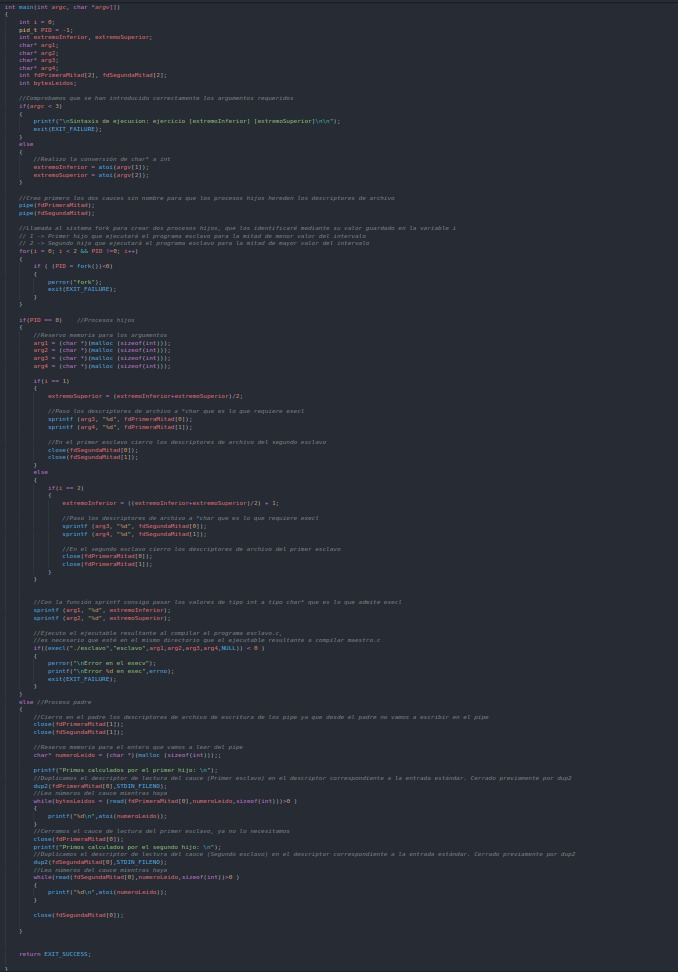
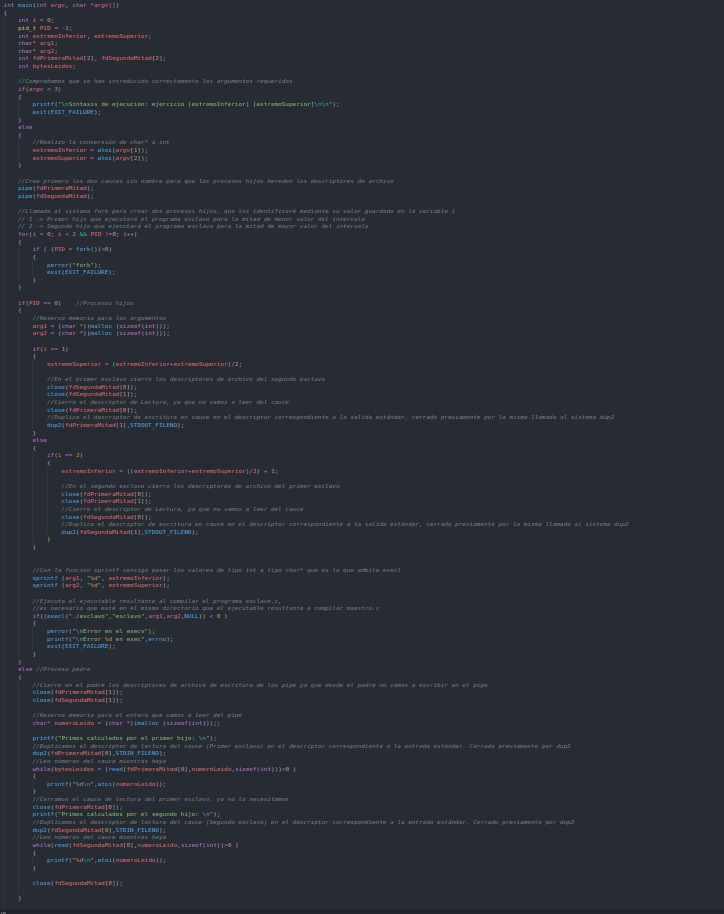
Corrigiendo apuntes

diff --git a/Modulo_II/Sesion 4/maestro.c b/Modulo_II/Sesion 4/maestro.c
@@ -13,8 +13,6 @@ int main(int argc, char *argv[])
     int extremoInferior, extremoSuperior;
     char* arg1;
     char* arg2;
-    char* arg3;
-    char* arg4;
     int fdPrimeraMitad[2], fdSegundaMitad[2];
     int bytesLeidos;
 
@@ -52,16 +50,10 @@ int main(int argc, char *argv[])
         //Reservo memoria para los argumentos
         arg1 = (char *)(malloc (sizeof(int)));
         arg2 = (char *)(malloc (sizeof(int)));
-        arg3 = (char *)(malloc (sizeof(int)));
-        arg4 = (char *)(malloc (sizeof(int)));
 
         if(i == 1)
         {
             extremoSuperior = (extremoInferior+extremoSuperior)/2;
-
-            //Paso los descriptores de archivo a *char que es lo que requiere execl
-            sprintf (arg3, "%d", fdPrimeraMitad[0]);
-            sprintf (arg4, "%d", fdPrimeraMitad[1]);
 
             //En el primer esclavo cierro los descriptores de archivo del segundo esclavo
             close(fdSegundaMitad[0]);
@@ -76,10 +68,6 @@ int main(int argc, char *argv[])
             if(i == 2)
             {
                 extremoInferior = ((extremoInferior+extremoSuperior)/2) + 1;
-
-                //Paso los descriptores de archivo a *char que es lo que requiere execl
-                sprintf (arg3, "%d", fdSegundaMitad[0]);
-                sprintf (arg4, "%d", fdSegundaMitad[1]);
 
                 //En el segundo esclavo cierro los descriptores de archivo del primer esclavo
                 close(fdPrimeraMitad[0]);
